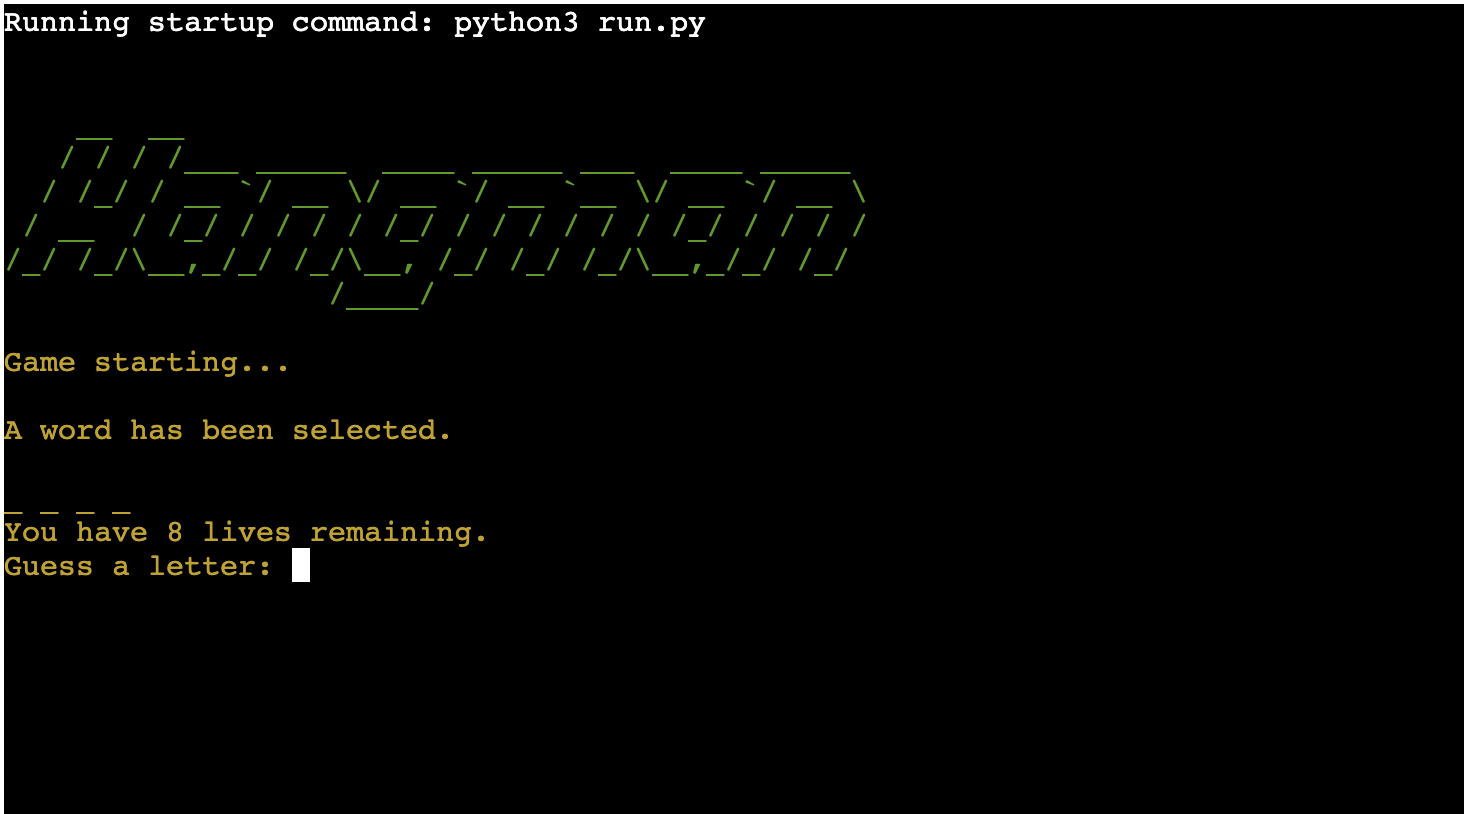
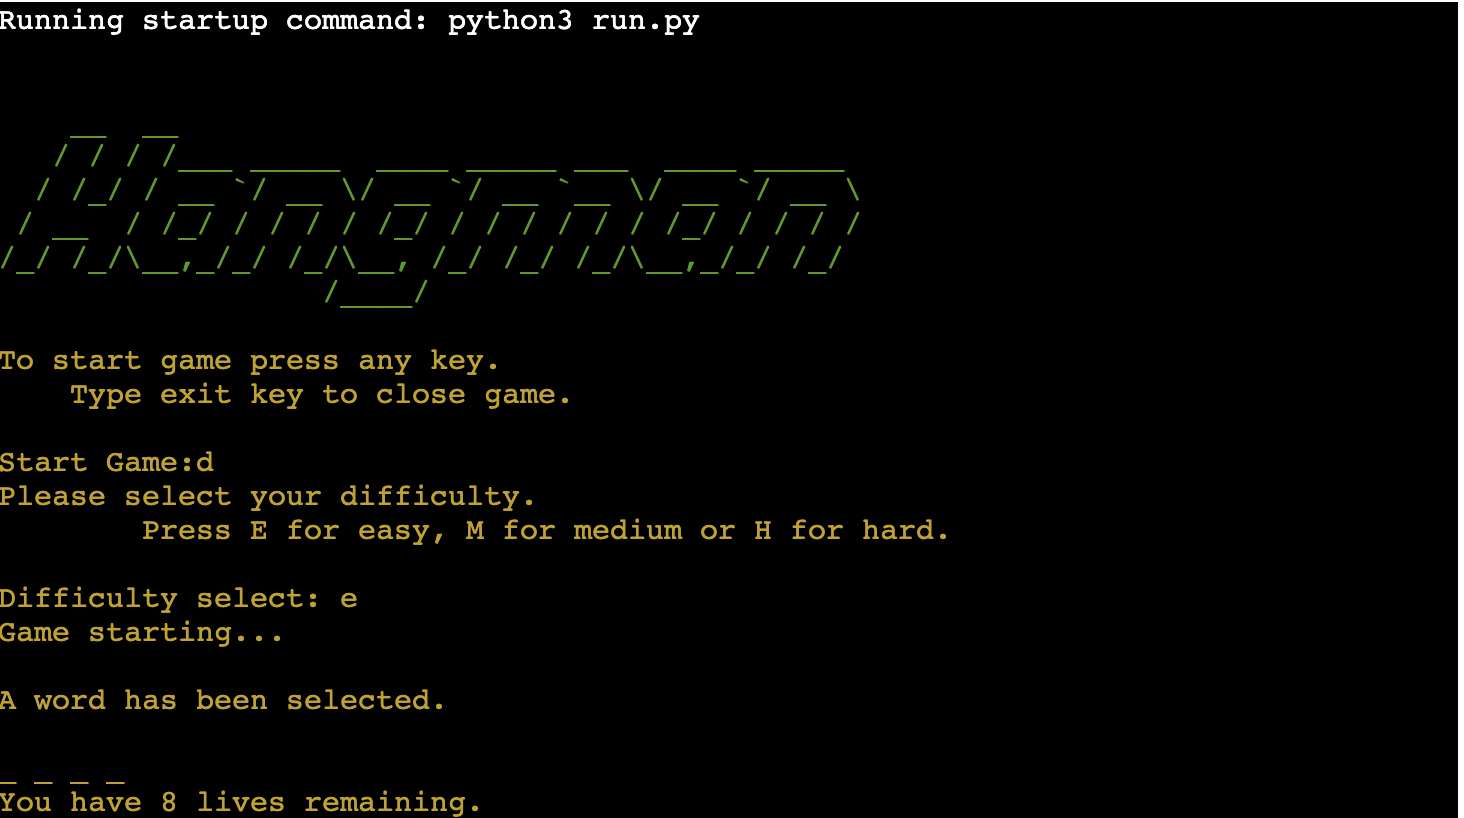
Updating images and readme

diff --git a/README.md b/README.md
@@ -1,5 +1,6 @@
 # Hangman
-__________
+
+Hangman is based of the popular childrens game, you are given a word to guess and must find out what it is before you run out of lives. Once you start the game you can select the difficulty, this will affect how many lives you have and how hard the words are to guess. Once you have a word you can type in a letter, if it is wrong you lose a life, it you are right the letter will appear in the space it is in the letter. You can change the difficulty at the end of every round or exit if you wish.
 
 # Features
 Intialising screen
